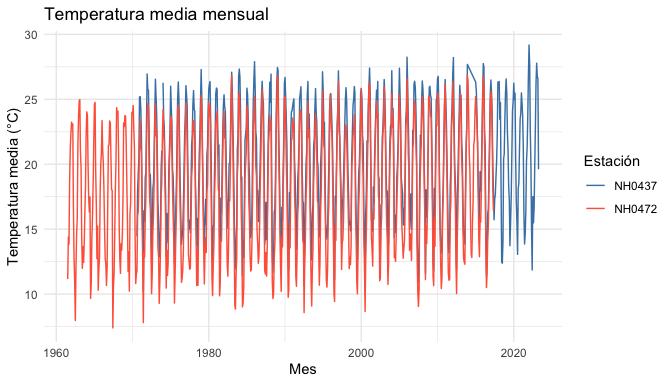
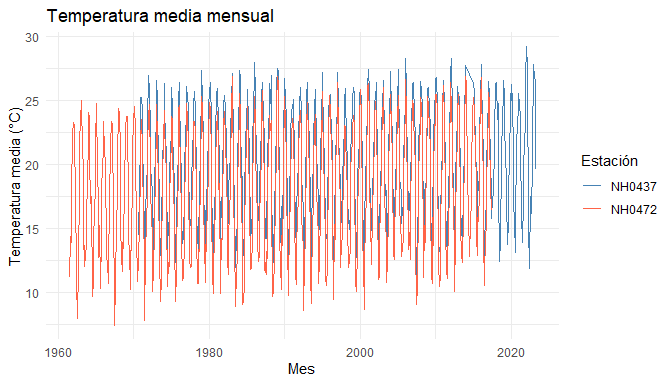
Agregar github actions de r cmd check y cobertura

diff --git a/README.md b/README.md
@@ -7,6 +7,9 @@
 
 [![Lifecycle:
 experimental](https://img.shields.io/badge/lifecycle-experimental-orange.svg)](https://lifecycle.r-lib.org/articles/stages.html#experimental)
+[![R-CMD-check](https://github.com/maipochettino/lloRando/actions/workflows/R-CMD-check.yaml/badge.svg)](https://github.com/maipochettino/lloRando/actions/workflows/R-CMD-check.yaml)
+[![Codecov test
+coverage](https://codecov.io/gh/maipochettino/lloRando/graph/badge.svg)](https://app.codecov.io/gh/maipochettino/lloRando)
 <!-- badges: end -->
 
 > Porque a veces el clima te hace llorar… y los datos meteorológicos
